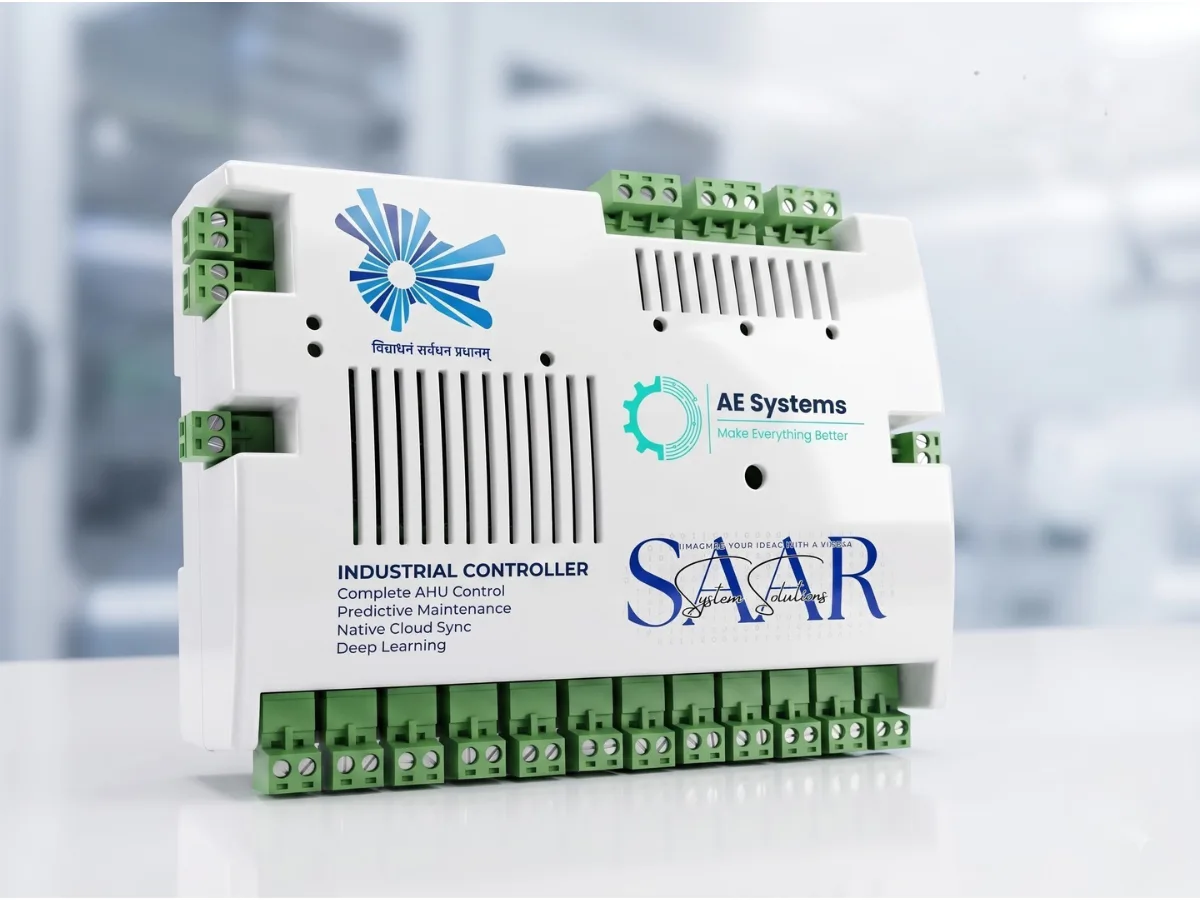
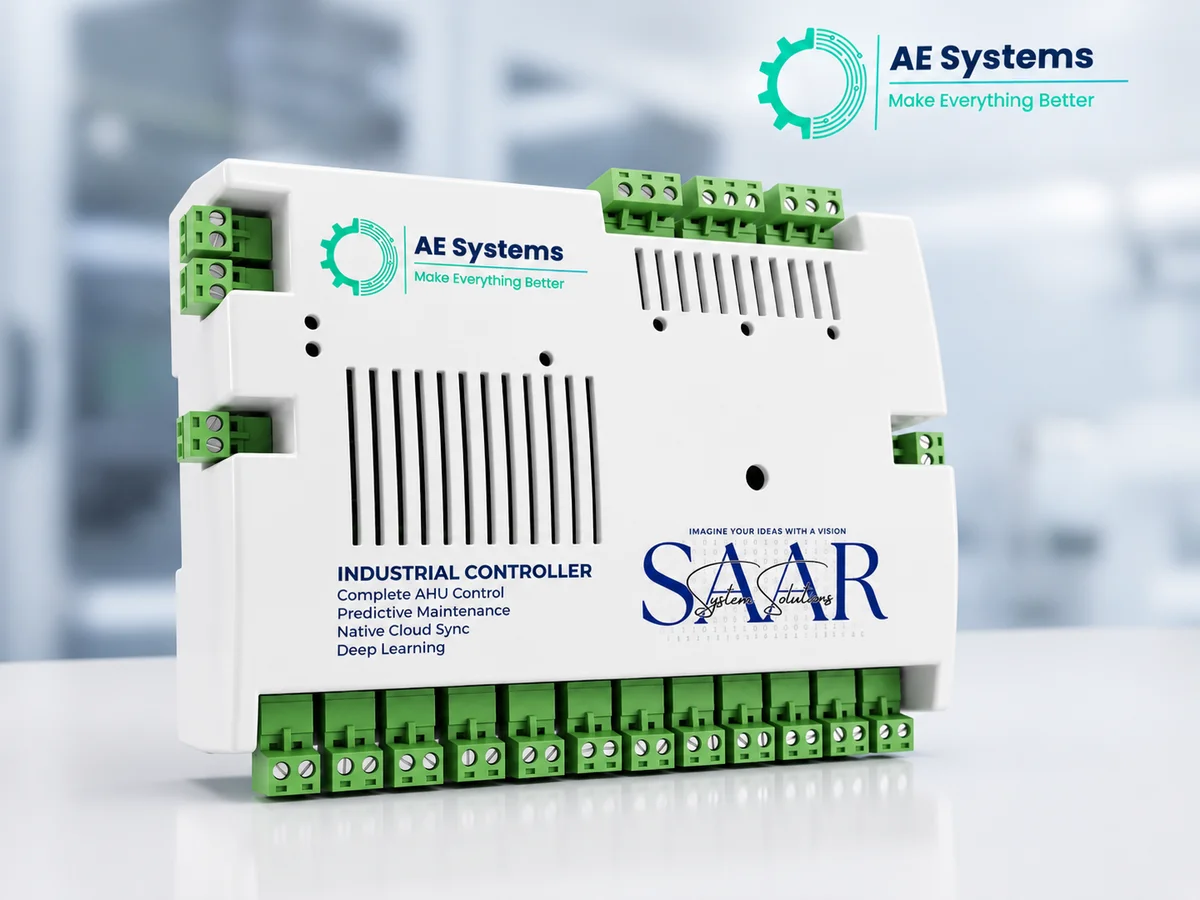
Update Universal Gateway, Industrial Controller and Energy Dashboard product images

diff --git a/README.md b/README.md
@@ -6,6 +6,11 @@
 
 ## Changelog
 
+### 2026-11-19 — New Universal Gateway, Industrial Controller & Energy Dashboard images
+
+- `public/assets/products/energy-dashboard.webp` was also replaced (640×310). The supplied file was actually JPEG data with a `.webp` extension, so it was re-encoded to a true WebP in place.
+- Replaced the two "See It In Action" product images with the new artwork from `assets/products/*.png` (gitignored source). Resized to 1200×900 and re-encoded into the existing `public/assets/products/universal-gateway.jpg` and `industrial-controller.webp`, so no component changes were needed. Local only — not yet deployed.
+
 ### 2026-09-01 — Live Demo button in nav
 
 - Added a "Live Demo" pill button to the header nav (`components/layout/Nav.tsx`), both desktop and mobile menus, linking to `https://www.saarsystems.com/demo`. Clicking it shows a `window.confirm` interstitial ("You're about to leave the AE Systems website...") before opening the demo in a new tab (`window.open(..., "_blank", "noopener,noreferrer")`) — no dedicated modal component exists in the codebase yet, so this uses the native browser confirm rather than adding one for a single use case.
